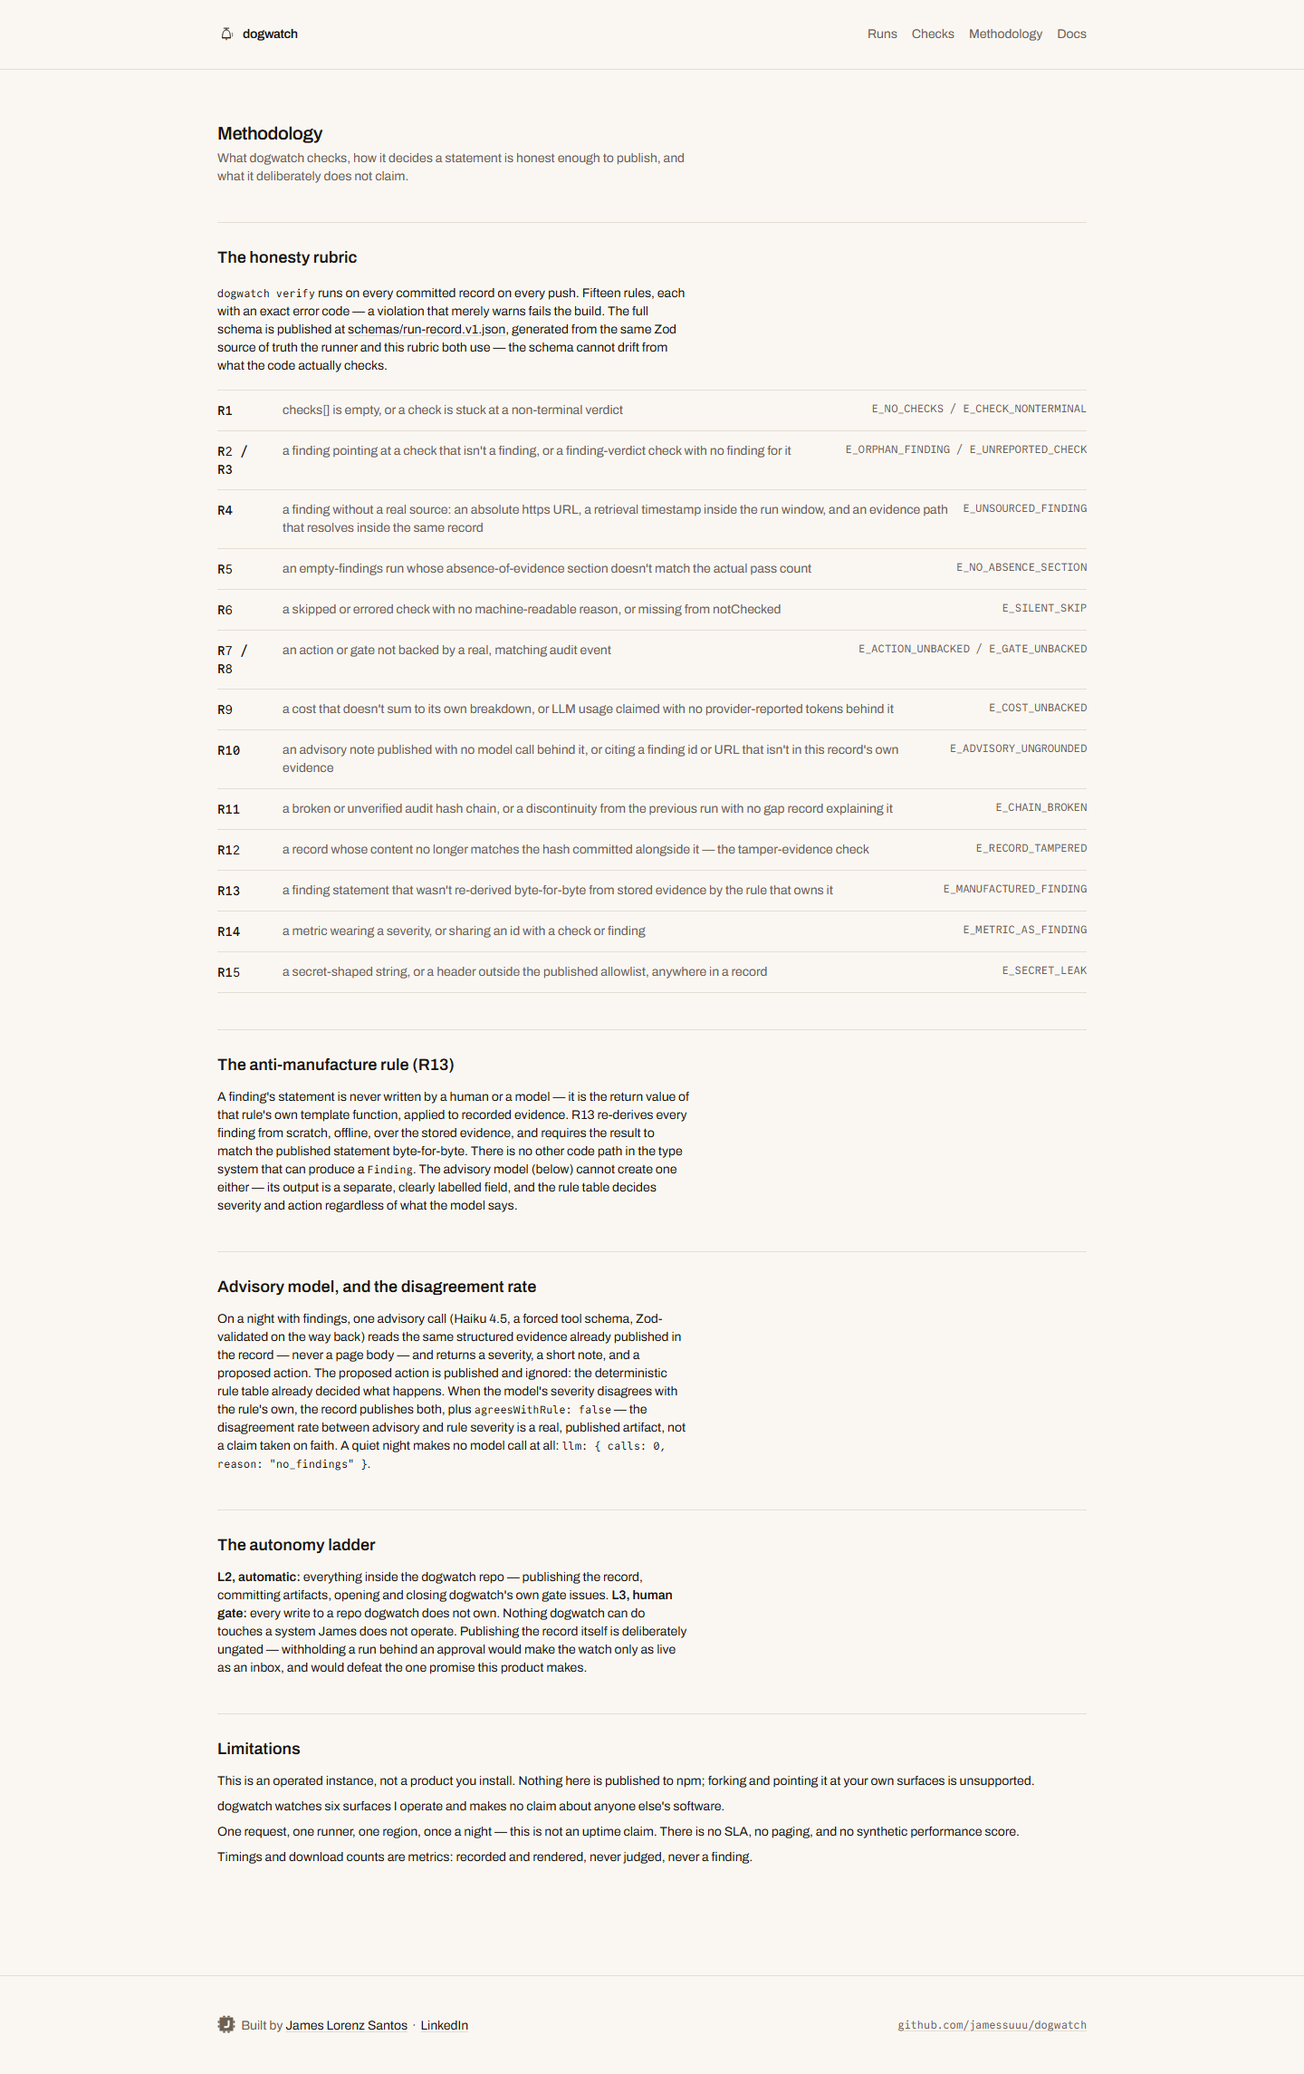
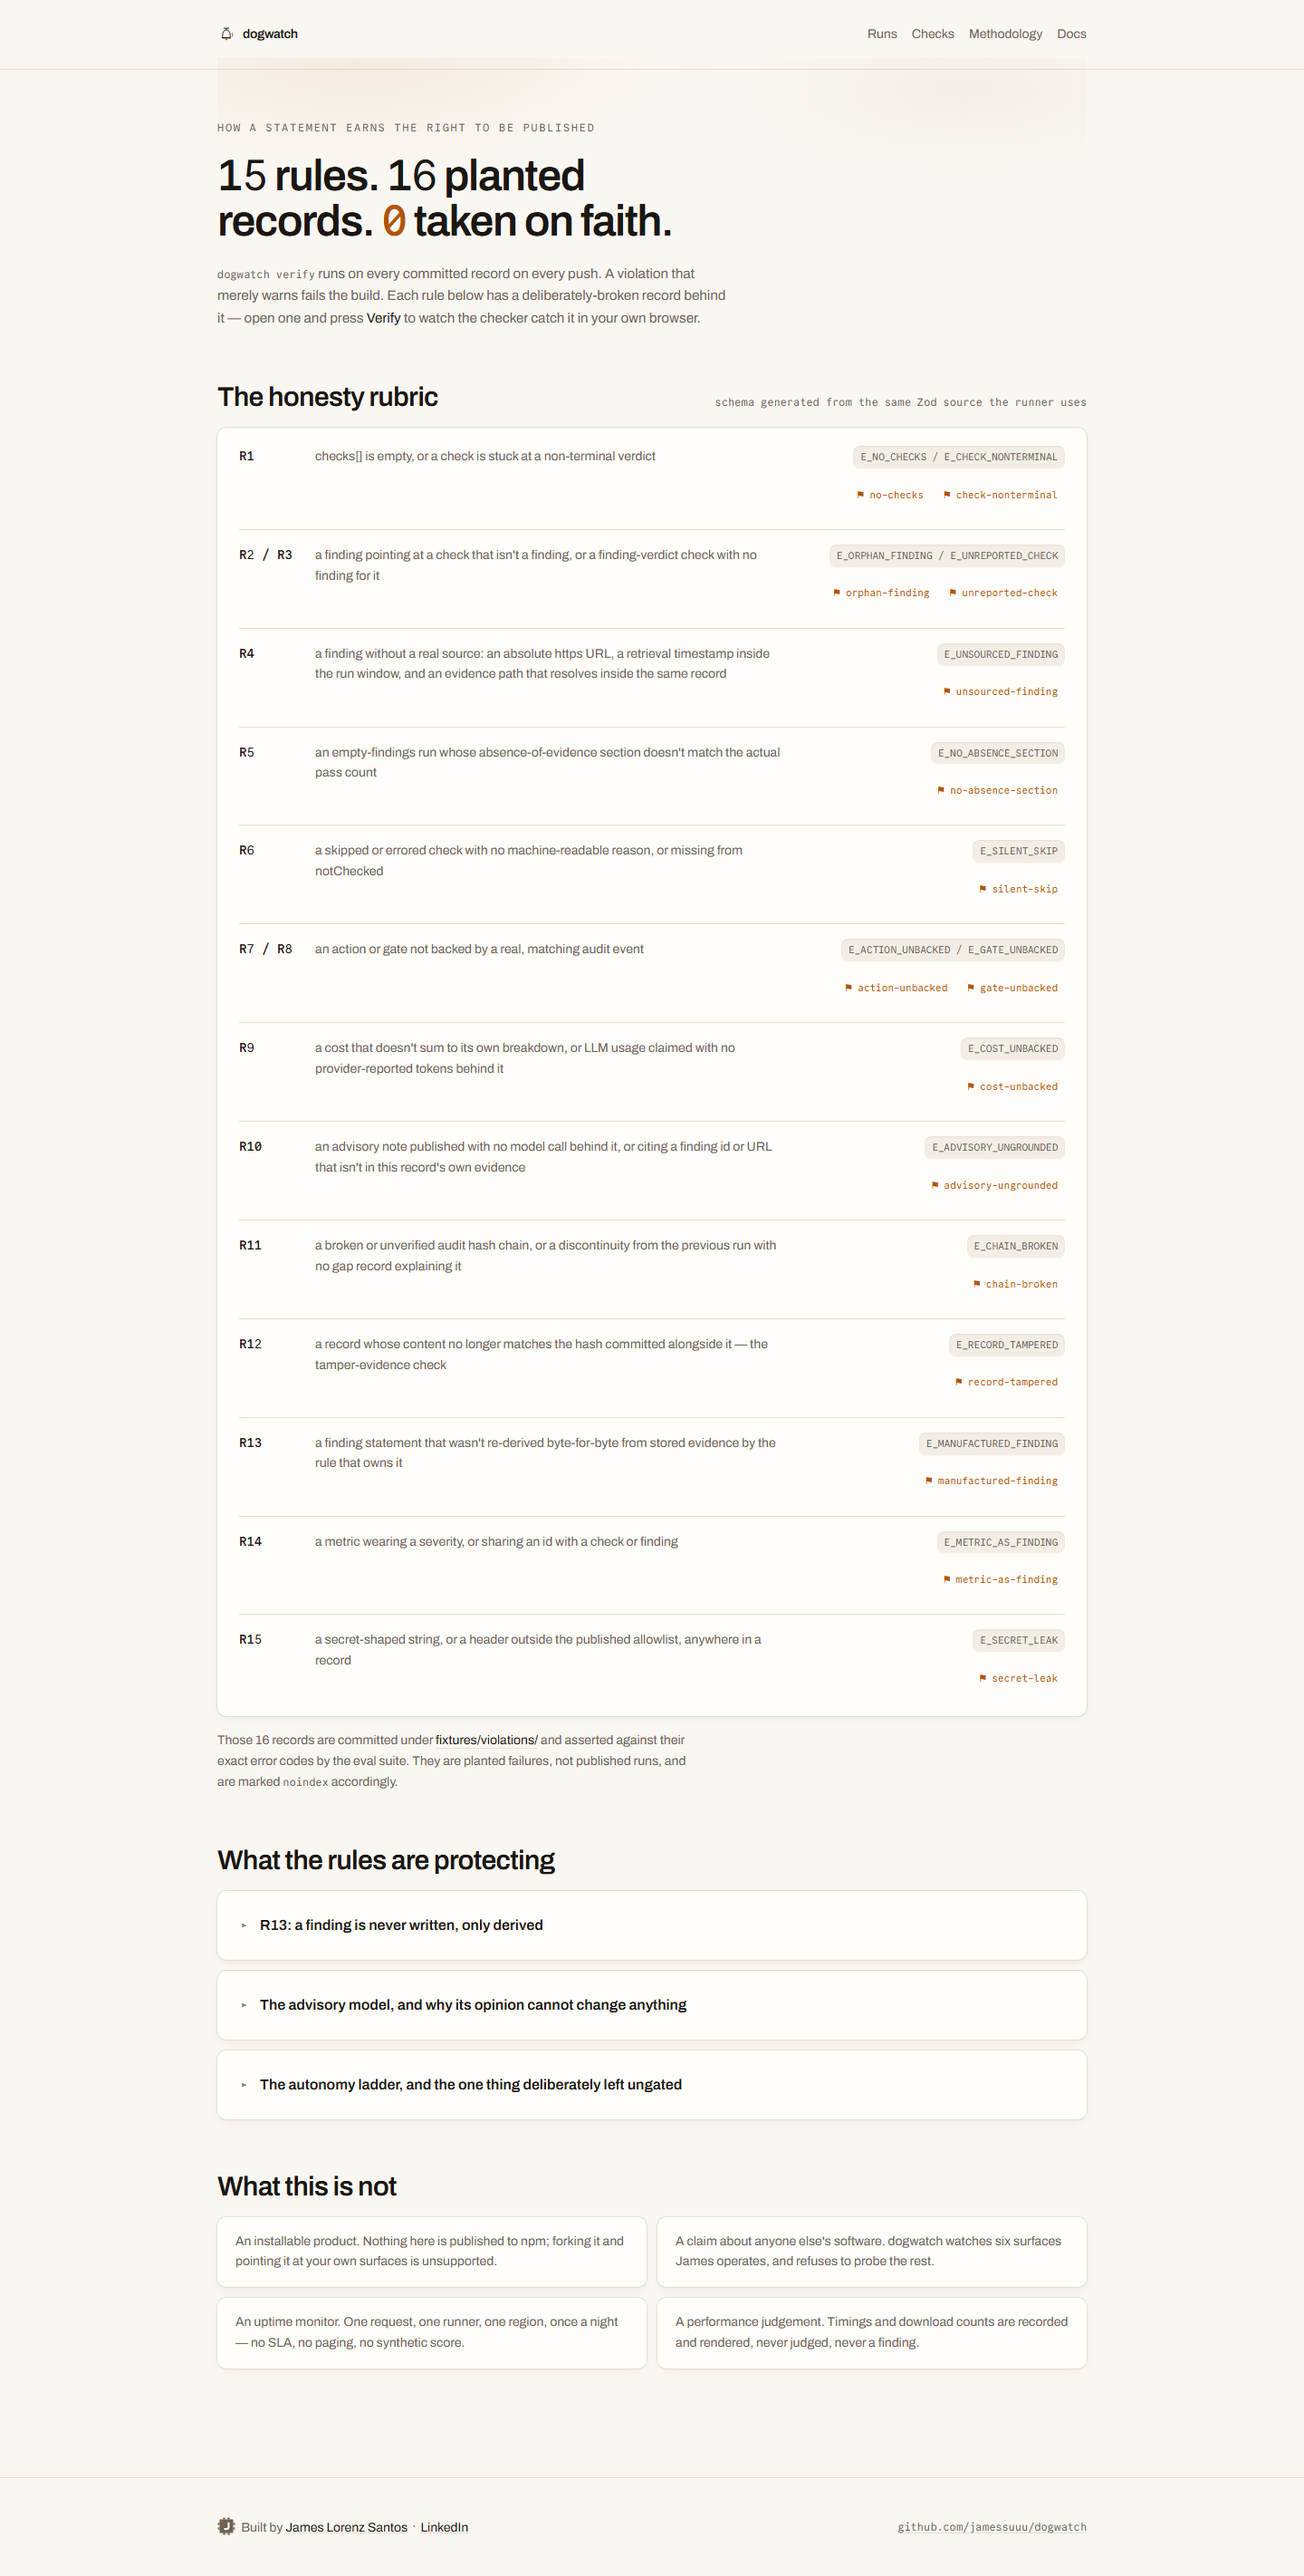
docs(shots): record the /methodology and /checks rebuild
Claude-Session: https://claude.ai/code/session_019rfvjaP9hvT368bXjyYaBM

diff --git a/docs/shots/README.md b/docs/shots/README.md
@@ -66,3 +66,22 @@ transitions running at 150ms on the deployed page. Measured now:
 |---|---|---|
 | normal | 39 | 6 |
 | `prefers-reduced-motion: reduce` | 0 | 0 |
+
+## Routes
+
+| route | before | after |
+|---|---|---|
+| `/` | one line about last night | 23 nights, the chart, the chain, the six surfaces, the cost |
+| `/runs/<id>` | id + metadata, then 121 rows | a six-cell summary first; 533px mobile overflow fixed |
+| `/methodology` | a rubric table and four prose blocks | 15 rules each linked to the planted record that proves it fires; prose behind disclosure |
+| `/checks` | hairline list of families | leads with what is registered and NOT built; families as panels |
+| `/docs` | long-form reference | unchanged — still prose-heavy, see the handover |
+
+`/methodology`'s fixture links are checked at build in both directions: a
+dead link fails the build, and so does a committed fixture the rubric has
+stopped covering. Proved by planting `r99-does-not-exist`.
+
+The rubric -> fixture -> Verify chain is asserted end to end by the e2e
+suite and re-checked on the deployed build: clicking R13's planted record
+and pressing Verify yields `data-verify-state="fail"` with
+`E_MANUFACTURED_FINDING`.
